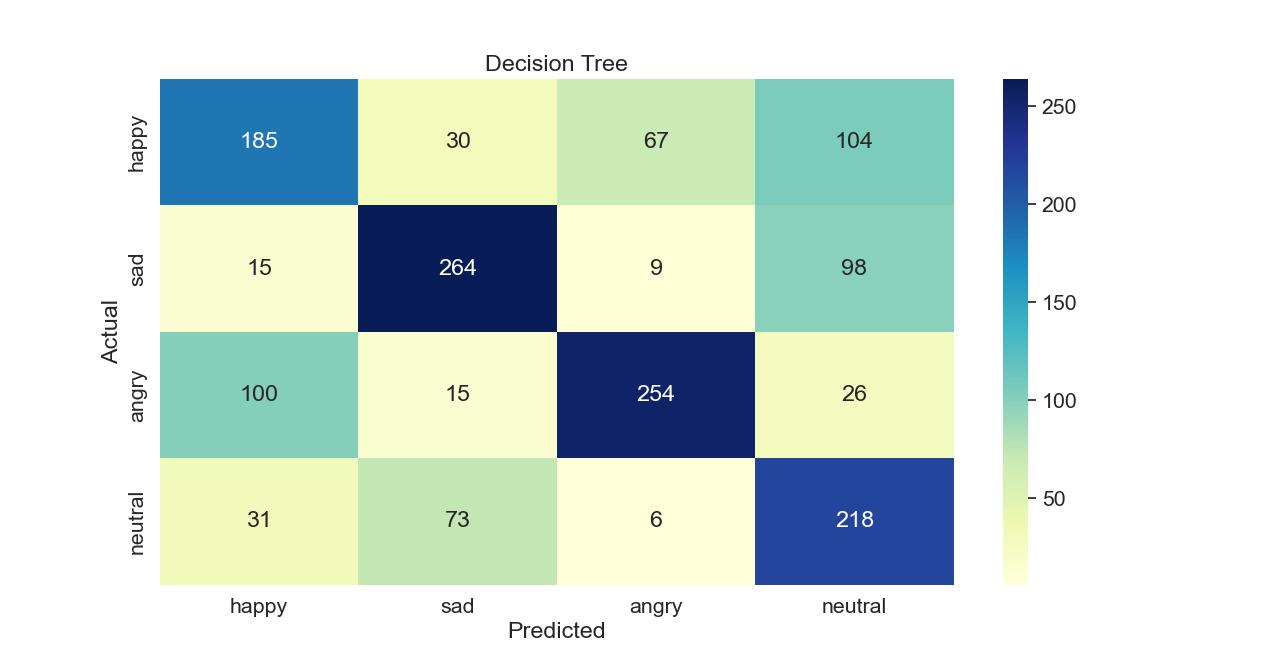
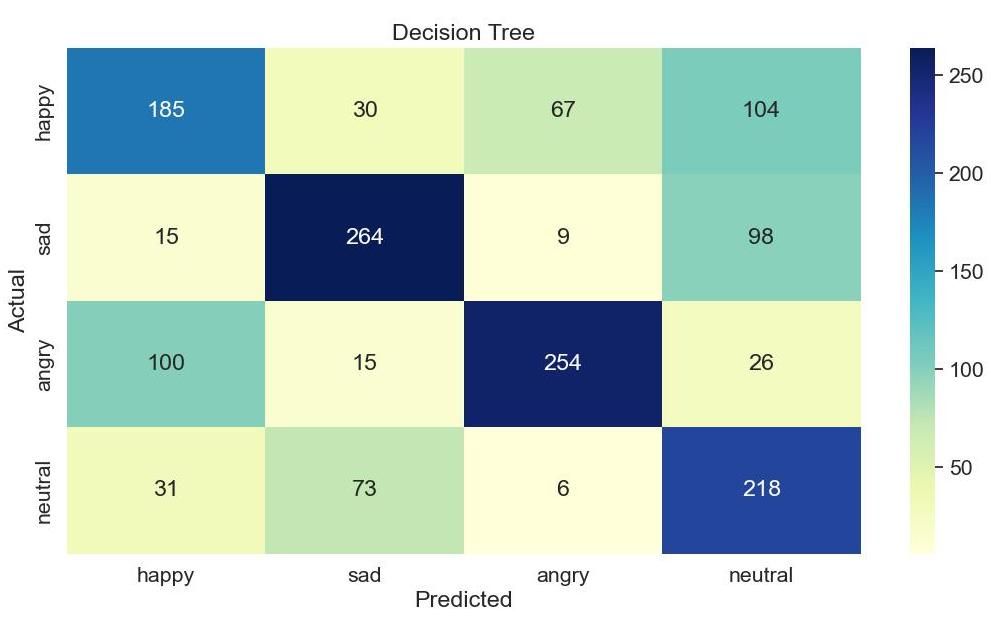
cropped cm

diff --git a/_sass/_post.scss b/_sass/_post.scss
@@ -13,7 +13,7 @@
   align: middle;
   margin: 5px auto 25px;
   display: block;
-  max-width: 80%;
+  max-width: 60%;
 }
 @media (max-width: $container-width) {
   .post-content {
